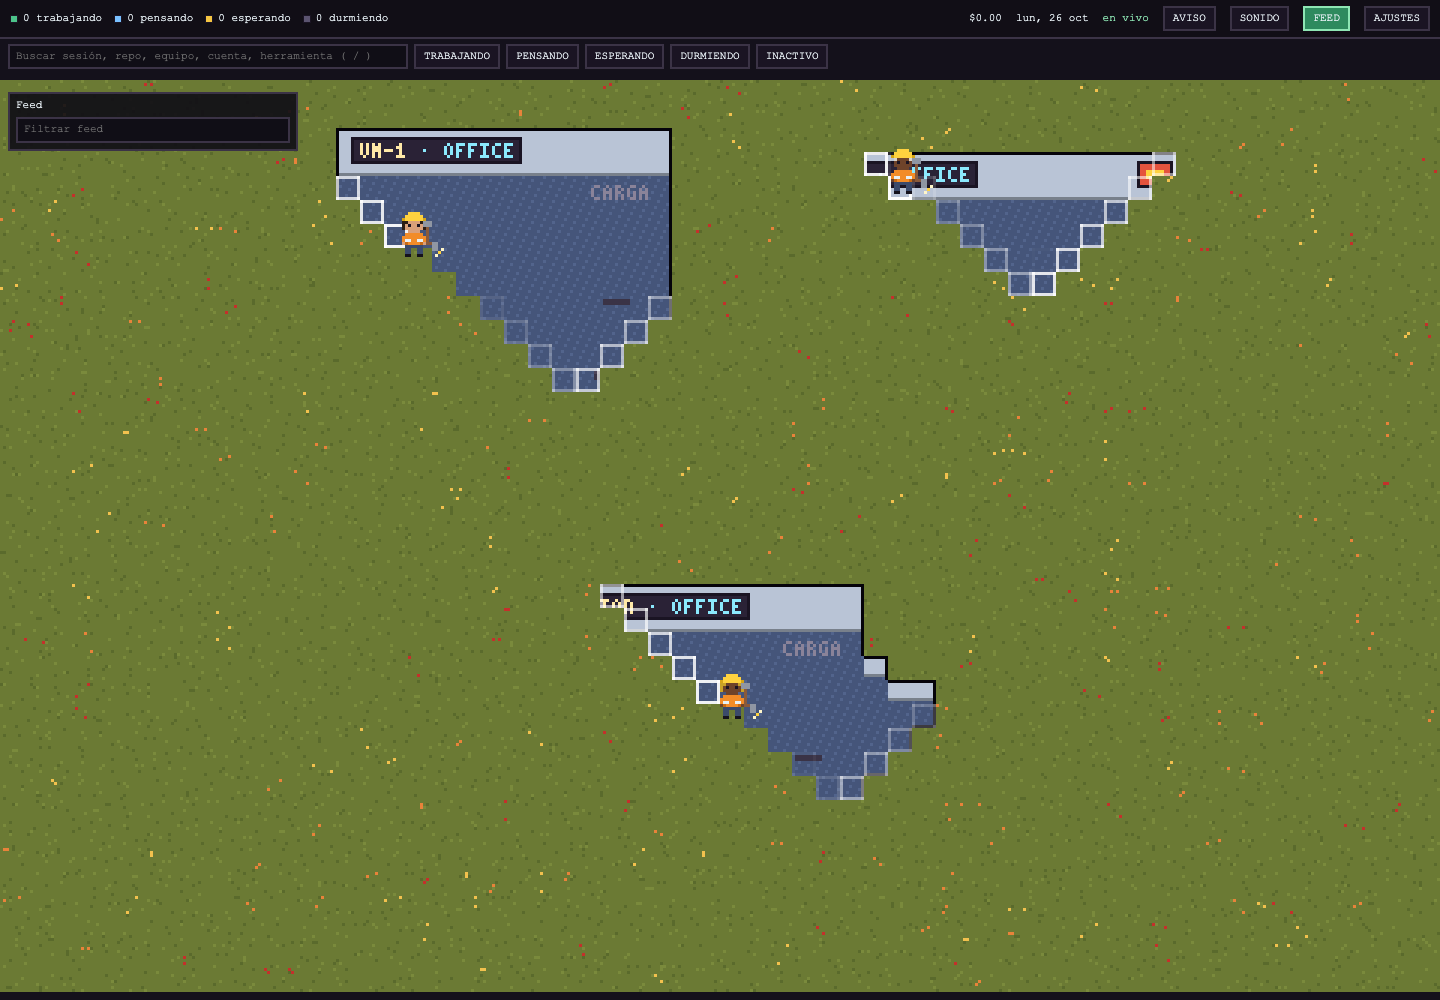
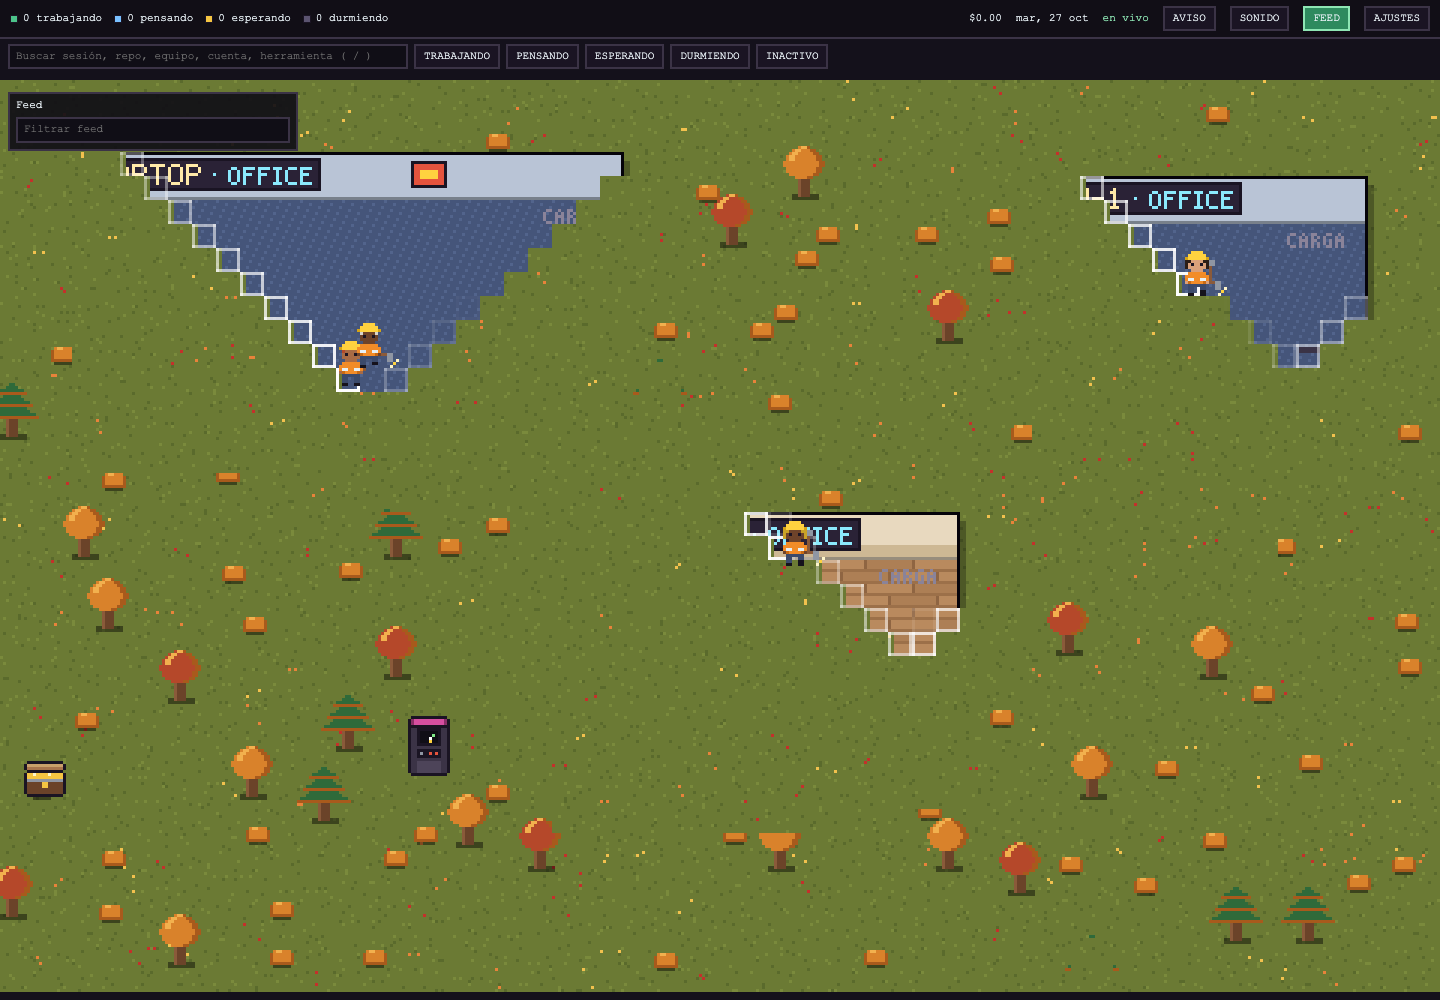
scene-check: capturas a escala 1, 3 y con zoom, comprobación de píxel perfecto y de estabilidad al crecer; obra sin sombras adelantadas

diff --git a/packages/web/src/scene/worldpaint.ts b/packages/web/src/scene/worldpaint.ts
@@ -213,10 +213,22 @@ export function copyRect(src: BufferPainter, dst: BufferPainter, x: number, y: n
 export function paintConstruction(wa: WorldArt, prev: WorldArt | null, w: WorldLayout, tb: number, out: BufferPainter): void {
   out.data.set(wa.full.data);
   const rv = w.build.reveal, dm = w.build.demolish;
-  // pending tiles show terrain; pending trees/bushes show the ground (they may overlap built tiles)
-  for (const r of rv) if (r.time > tb) copyRect(r.kind === 'office' || r.kind === 'path' ? wa.terrain : wa.ground, out, r.x, r.y, r.w, r.h);
+  // 1. pending trees/bushes/outdoor show the ground under them (they overlap neighbouring tiles)
+  for (const r of rv) if (r.time > tb && r.kind !== 'office' && r.kind !== 'path') copyRect(wa.ground, out, r.x, r.y, r.w, r.h);
+  // 2. pending tiles show terrain; office tiles also hide their east/south shadow band
+  const pendingPath = new Set<string>();
+  for (const r of rv) {
+    if (r.time > tb && r.kind === 'office') copyRect(wa.terrain, out, r.x, r.y, r.w + 2, r.h + 3);
+    else if (r.time > tb && r.kind === 'path') { copyRect(wa.terrain, out, r.x, r.y, r.w, r.h); pendingPath.add(r.x + ',' + r.y); }
+  }
+  // 3. built paths next to pending tiles get their art back
+  for (const k of w.path) {
+    const x = (k % w.cols) * TS, y = GY + Math.floor(k / w.cols) * TS;
+    if (!pendingPath.has(x + ',' + y)) copyRect(wa.ground, out, x, y, TS, TS);
+  }
+  // 4. what is still to be demolished shows the previous world
   if (prev) for (const r of dm) if (r.time > tb) copyRectFrom(prev.full, out, r.x, r.y, r.w, r.h);
-  // trees and bushes overlap each other: restore the revealed ones a pending neighbour may have hidden
+  // 5. revealed trees and bushes come back over whatever a pending neighbour hid
   for (const r of rv) if (r.time <= tb && r.kind !== 'office' && r.kind !== 'path') copyRect(wa.full, out, r.x, r.y, r.w, r.h);
   for (const r of rv) {
     const a = tb - r.time;
